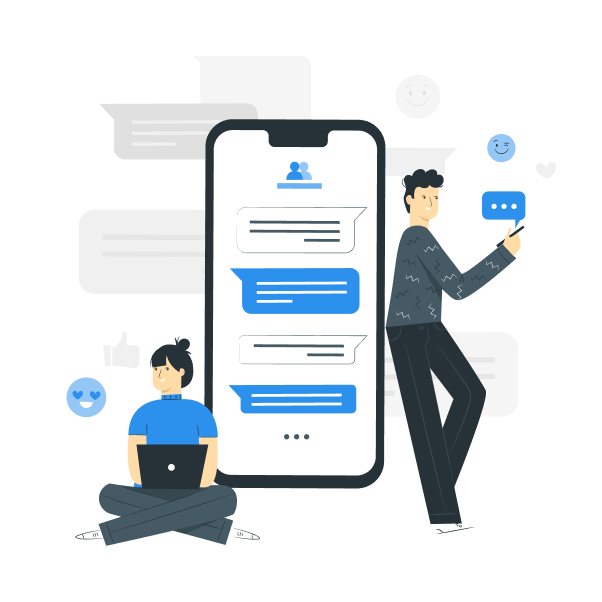
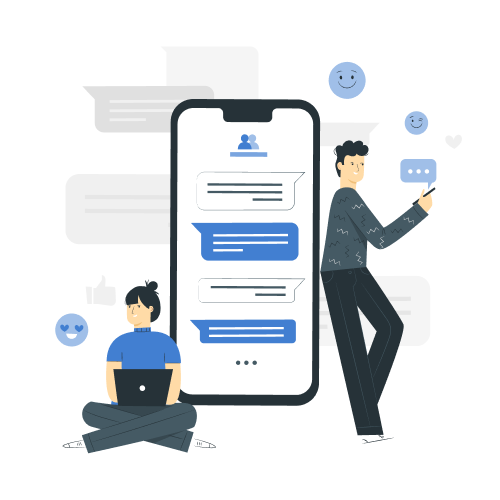
change project assets

diff --git a/client/src/styles/index.scss b/client/src/styles/index.scss
@@ -1,6 +1,6 @@
 @import url('https://fonts.googleapis.com/css2?family=Cairo:wght@400;500;600;700;800;900&display=swap');
 
-$primary: #2C90ED;
+$primary: #427FD1;
 $secondary: #777;
 
 * {
@@ -10,6 +10,7 @@ $secondary: #777;
     list-style: none;
     text-decoration: none;
     font-family: 'Cairo', sans-serif;
+    user-select: none;
 }
 
 body {

diff --git a/client/src/index.tsx b/client/src/index.tsx
@@ -11,7 +11,7 @@ const root = ReactDom.createRoot(document.getElementById("root") as HTMLElement)
 const theme = createTheme({
     palette: {
         primary: {
-            main:"#2C90ED"
+            main:"#427FD1"
         }
     }
 })

diff --git a/client/src/styles/_authPage.scss b/client/src/styles/_authPage.scss
@@ -12,6 +12,7 @@
 
         &>img {
             margin-bottom: 1rem;
+            width:75px;
         }
 
         h1 {
